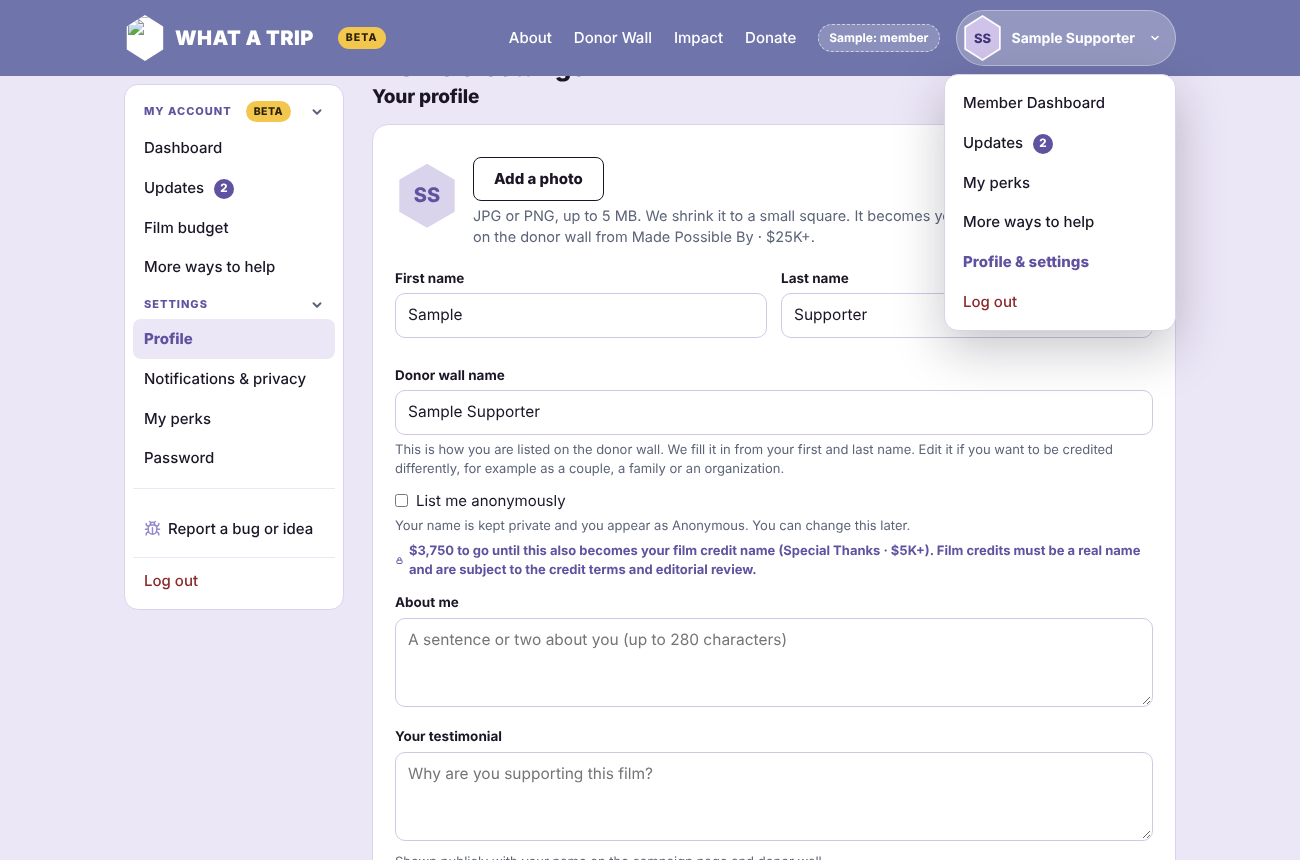
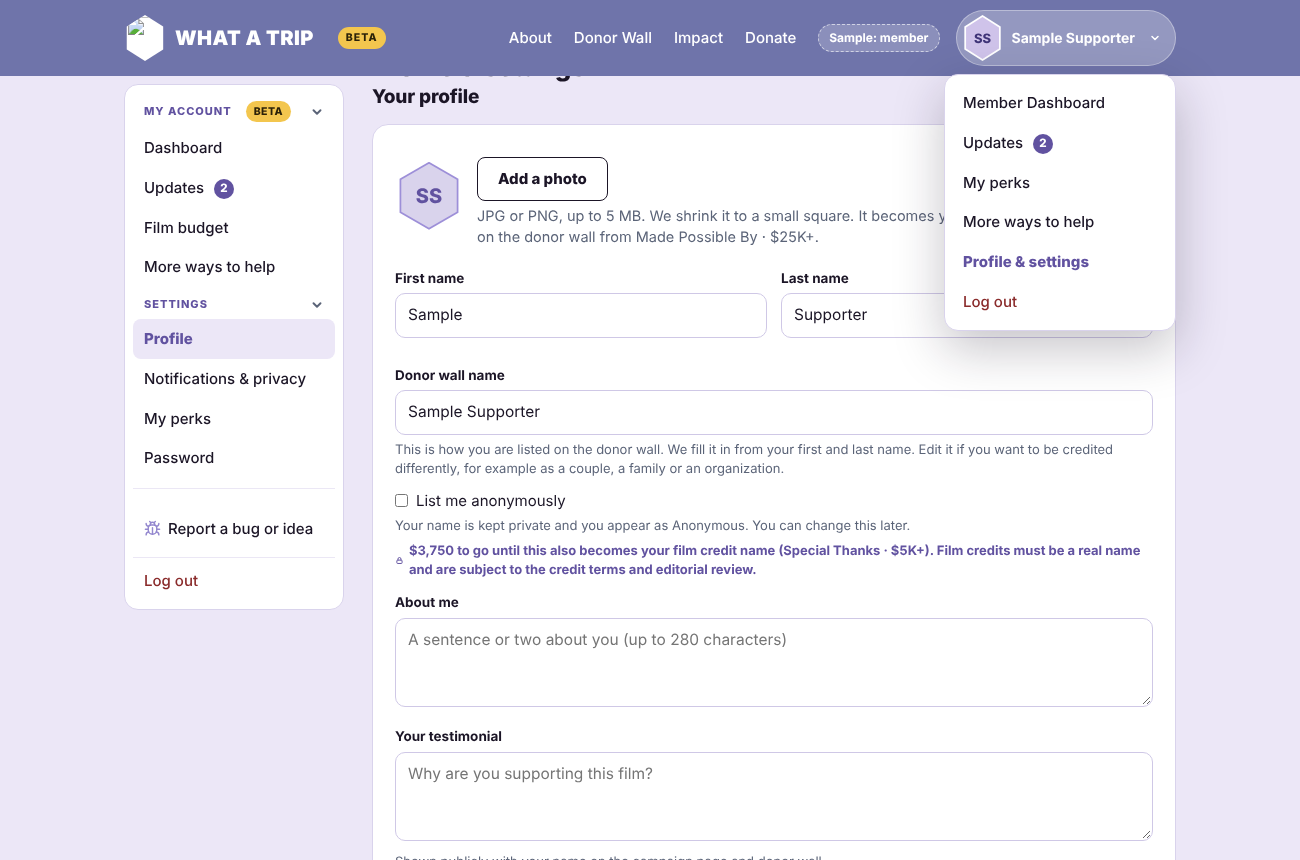
Home dev: borders on all profile hexagons; supporter profile with credit level, year, donation history, challenges, bio/links hook, shareable link
Claude-Session: https://claude.ai/code/session_01B4g6Jr5SafogaXZoJmXf7b

Changed region(s): [[0.3077, 0.1814, 0.7385, 0.3023]]

diff --git a/home-page/home-block.html b/home-page/home-block.html
@@ -1530,6 +1530,29 @@ html.wath-framed :is(#wath,#wath-top) .pvb{display:none}
 #header .wath-chip-av,#header .wath-hlog .wath-chip-av,#wath-top .wath-chip .wath-chip-av,.wath-chip .wath-chip-av{width:42px!important;height:46px!important;font-size:13px!important}
 #wath-top .mme .wath-chip-av{width:42px!important;height:46px!important;font-size:13px;font-weight:800;display:inline-flex;flex:none}
 #wath-top .mlogo img{width:42px!important;height:46px!important;padding:2px!important;background:#fff!important;box-sizing:border-box}
+:is(#wath,#wath-top) .hxw{display:inline-flex;flex:none;align-self:center;padding:2px;background:#9d8fd8;line-height:0;vertical-align:middle;clip-path:polygon(50% 0,93.3% 25%,93.3% 75%,50% 100%,6.7% 75%,6.7% 25%)}
+:is(#wath,#wath-top) .hxw>*{margin:0!important;box-shadow:none!important;border:0!important}
+#wath-top .mme .hxw,#wath-top .mme .hxw.hxm{padding:2px;background:#fff}
+#wath-top .sphx{margin:0 0 14px;border:1px solid #e3def0;border-radius:12px}
+#wath-top .sphb{all:unset;box-sizing:border-box;display:flex;align-items:center;gap:8px;width:100%;padding:11px 14px;font-weight:700;font-size:14.5px;color:#5d4fa6;cursor:pointer}
+#wath-top .sphb .chev{margin-left:auto;transition:transform .15s}
+#wath-top .sphb[aria-expanded=true] .chev{transform:rotate(180deg)}
+#wath-top .sphb:focus-visible{outline:2px solid #6152a0;border-radius:12px}
+#wath-top .sphl{padding:0 14px 8px}
+#wath-top .sphl>div{display:flex;justify-content:space-between;padding:7px 0;border-top:1px solid #f0edf7;font-size:14.5px}
+#wath-top .sphl span{color:#5b6478}
+#wath-top .spch{margin:0 0 14px}
+#wath-top .spl{display:block;font-size:11px;font-weight:800;letter-spacing:.09em;text-transform:uppercase;color:#6152a0;margin-bottom:6px}
+#wath-top .spch>div{display:flex;justify-content:space-between;gap:10px;padding:9px 12px;background:#fff8e8;border-radius:10px;margin-bottom:6px;font-size:14.5px}
+#wath-top .spch>div span{color:#7a6230}
+#wath-top .spbio p{margin:0 0 10px;color:#3a3245;line-height:1.5;font-size:15px}
+#wath-top .spbio .sprole{font-weight:700;color:#5d4fa6;font-size:14px}
+#wath-top .splk{display:flex;flex-wrap:wrap;gap:8px;margin:0 0 14px}
+#wath-top .splk a{padding:6px 12px;border-radius:999px;border:1px solid #e3def0;font-size:13.5px;font-weight:700;color:#5d4fa6;text-decoration:none}
+#wath-top .splk a:hover{background:#f4f1fb}
+#wath-top .spf{display:flex;flex-wrap:wrap;gap:10px}
+#wath-top .spf .btn{display:inline-flex;align-items:center;gap:7px}
+#wath-top .spq:empty{display:none}
 .mov .adots{position:relative;display:inline-flex}
 .mov .amng button.adotb{width:36px!important;height:36px!important;min-width:36px;box-sizing:border-box;flex:none;border-radius:50%;border:1px solid rgba(27,21,38,.16);background:#fff;color:#1b1526;display:inline-flex;align-items:center;justify-content:center;cursor:pointer;padding:0}
 .mov .amng button.adotb:hover{background:#f1eef8}
@@ -1705,12 +1728,21 @@ function renderDonations(){tally();SUPQ=null;var tabs=[['top','Top supporters'],
 /* Nov 17 (Nirvan): supporters are clickable: a small public profile with their total, level and any comments; a comment icon marks people who left one */
 function supQ(n){var k=String(n).toLowerCase(),Q=[];comments().forEach(function(c){if(c.n.toLowerCase()===k&&Q.indexOf(c.t)<0)Q.push(c.t)});PINNED.forEach(function(p){if(p.n.toLowerCase()===k&&Q.indexOf(p.t)<0)Q.unshift(p.t)});return Q}
 var SUPQ=null;function supCm(n){if(!SUPQ){SUPQ={};comments().forEach(function(c){SUPQ[c.n.toLowerCase()]=1});PINNED.forEach(function(p){SUPQ[p.n.toLowerCase()]=1})}return SUPQ[String(n).toLowerCase()]?'<span class="spcm" title="Left a comment" aria-label="Left a comment"><svg aria-hidden="true" width="15" height="15" viewBox="0 0 24 24" fill="none" stroke="currentColor" stroke-width="2.2" stroke-linecap="round" stroke-linejoin="round"><path d="M4 5h16v11H9l-5 4z"/></svg></span>':''}
-function openSupp(n){var k=String(n).toLowerCase(),G=S.gifts.filter(function(g){return !isAnon(g)&&nm(g).toLowerCase()===k}).sort(function(x,y){return String(x.date)<String(y.date)?-1:1}),tot=TOTALS[k]||G.reduce(function(t,g){return t+(+g.amount||0)},0),l=levelFor(tot),Q=supQ(n),pin=PINNED.filter(function(p){return p.n.toLowerCase()===k})[0],first=G[0]&&String(G[0].date||'').slice(0,10).split('-');
-  var since=first&&first.length===3?['January','February','March','April','May','June','July','August','September','October','November','December'][+first[1]-1]+' '+first[0]:'';
+/* Nov 17 4:24pm (Nirvan): an approved public profile adds a short bio; social links show from the level that includes "Photo & social links" ($25K+) */
+var SUPC={};function supCard(n,tot,o){var k=String(n).toLowerCase(),put=function(p){var el=o.querySelector('[data-spbio]');if(!el||!p)return;var L=[];if(tot>=25000){[['link_instagram','Instagram'],['link_linkedin','LinkedIn'],['link_website','Website'],['link_other','Link']].forEach(function(x){var u=String(p[x[0]]||'').trim();if(!u)return;if(x[0]==='link_instagram'&&!/^https?:/i.test(u))u='https://www.instagram.com/'+u.replace(/^@/,'')+'/';if(!/^https?:\/\//i.test(u))u='https://'+u;L.push('<a href="'+esc(u)+'" target="_blank" rel="noopener nofollow">'+x[1]+'</a>')})}
+    el.innerHTML=(p.film_role?'<p class="sprole">'+esc(p.film_role)+'</p>':'')+(p.about_me?'<p>'+esc(p.about_me)+'</p>':'')+(L.length?'<div class="splk">'+L.join('')+'</div>':'');var sq=o.querySelector('.spq');if(p.testimonial&&sq&&sq.textContent.indexOf(p.testimonial)<0)sq.insertAdjacentHTML('beforeend','<blockquote>“'+esc(p.testimonial)+'”</blockquote>')};
+  if(k in SUPC){put(SUPC[k]);return}try{sbLoad(function(sb){if(!sb)return;sb.rpc('supporter_card',{p_name:n}).then(function(r){var p=r&&r.data&&r.data[0]||null;SUPC[k]=p;put(p)},function(){})})}catch(e){}}
+function openSupp(n){var k=String(n).toLowerCase(),G=S.gifts.filter(function(g){return !isAnon(g)&&nm(g).toLowerCase()===k}).sort(function(x,y){return String(x.date)<String(y.date)?1:-1}),tot=TOTALS[k]||G.reduce(function(t,g){return t+(+g.amount||0)},0),l=levelFor(tot),Q=supQ(n),pin=PINNED.filter(function(p){return p.n.toLowerCase()===k})[0],yrs=G.map(function(g){return String(g.date||'').slice(0,4)}).filter(function(y){return /^\d{4}$/.test(y)}).sort(),since=yrs[0]||'';
+  /* Nov 17 4:23pm (Nirvan): credit level, supporter since (year), donation history behind a chevron, matching challenges */
+  var cr=l?(l.credit?esc(l.n)+' credit':esc(l.n)+' level'):'Supporter';
+  var CH=LEGS.concat(PAST).filter(function(c){var cn=String(c.n).toLowerCase();return cn===k||(c.who||[]).some(function(w){return String(w).toLowerCase()===k})||cn.split(/\s*&\s*/).indexOf(k)>=0});
+  var hist=G.length>1?'<div class="sphx"><button class="sphb" data-sph aria-expanded="false">Donation history · '+G.length+' gifts<svg class="chev" aria-hidden="true" width="14" height="14" viewBox="0 0 16 16" fill="none" stroke="currentColor" stroke-width="2.2" stroke-linecap="round" stroke-linejoin="round"><path d="M4 6l4 4 4-4"/></svg></button><div class="sphl" hidden>'+G.map(function(g){var d=String(g.date||'').slice(0,10).split('-');var ds=d.length===3?['Jan','Feb','Mar','Apr','May','Jun','Jul','Aug','Sep','Oct','Nov','Dec'][+d[1]-1]+' '+(+d[2])+', '+d[0]:'';return '<div><span>'+ds+'</span><b>'+money(g.amount)+'</b></div>'}).join('')+'</div></div>':'';
+  var chs=CH.length?'<div class="spch"><span class="spl">Matching challenges</span>'+CH.map(function(c){return '<div><b>'+short(c.cap)+' matching challenge</b><span>'+(c.when?esc(c.when)+' · completed':'Doubling gifts now')+'</span></div>'}).join('')+'</div>':'';
   closeBio();var o=document.createElement('div');o.className='bov spov';o.setAttribute('role','dialog');o.setAttribute('aria-modal','true');o.setAttribute('aria-label',n);
-  o.innerHTML='<div class="bovc"><button class="bovx" aria-label="Close">&times;</button><div class="bovh spvh">'+av(n)+'<div><b>'+esc(n)+'</b><span>'+(pin?esc(pin.role):'Supporter')+'</span></div></div><div class="spst"><div><b>'+money(tot)+'</b><span>given'+(G.length>1?' across '+G.length+' gifts':'')+'</span></div>'+(l?'<div><b>'+esc(l.n)+'</b><span>'+l.l+' level</span></div>':'')+(since?'<div><b>'+since+'</b><span>supporting since</span></div>':'')+'</div>'+(Q.length?'<div class="spq">'+Q.map(function(q){return '<blockquote>“'+esc(q)+'”</blockquote>'}).join('')+'</div>':'<p class="spnq">'+esc(n.split(' ')[0])+' hasn’t left a comment yet.</p>')+'<div class="bovf"><button class="btn pri" data-spgive>Give and join '+esc(n.split(' ')[0])+'</button></div></div>';
-  o.addEventListener('click',function(ev){if(ev.target===o||ev.target.className==='bovx')closeBio();else if(ev.target.closest('[data-spgive]')){closeBio();give()}});T.appendChild(o);document.documentElement.classList.add('wath-noscroll');o.querySelector('.bovx').focus()}
+  o.innerHTML='<div class="bovc"><button class="bovx" aria-label="Close">&times;</button><div class="bovh spvh">'+av(n)+'<div><b>'+esc(n)+'</b><span>'+(pin?esc(pin.role):cr)+'</span></div></div><div class="spst"><div><b>'+money(tot)+'</b><span>given'+(G.length>1?' across '+G.length+' gifts':'')+'</span></div>'+(l?'<div><b>'+esc(l.n)+'</b><span>'+l.l+(l.credit?' credit level':' level')+'</span></div>':'')+(since?'<div><b>'+since+'</b><span>supporter since</span></div>':'')+'</div>'+'<div class="spbio" data-spbio></div>'+hist+chs+'<div class="spq">'+Q.map(function(q){return '<blockquote>“'+esc(q)+'”</blockquote>'}).join('')+'</div><div class="bovf spf"><button class="btn" data-spcopy><svg aria-hidden="true" width="16" height="16" viewBox="0 0 24 24" fill="none" stroke="currentColor" stroke-width="2.2" stroke-linecap="round" stroke-linejoin="round"><path d="M10 14a5 5 0 0 0 7 0l3-3a5 5 0 0 0-7-7l-1 1"/><path d="M14 10a5 5 0 0 0-7 0l-3 3a5 5 0 0 0 7 7l1-1"/></svg>Copy link to profile</button></div></div>';
+  o.addEventListener('click',function(ev){var hb=ev.target.closest('[data-sph]');if(hb){var op=hb.getAttribute('aria-expanded')!=='true';hb.setAttribute('aria-expanded',op);hb.nextSibling.hidden=!op;return}if(ev.target.closest('[data-spcopy]')){var u=location.origin+location.pathname+'?supporter='+encodeURIComponent(n);try{navigator.clipboard.writeText(u).then(function(){toast('Link copied. Anyone with it sees this profile.')},function(){prompt('Copy this link',u)})}catch(x){prompt('Copy this link',u)}return}if(ev.target===o||ev.target.className==='bovx')closeBio();else if(ev.target.closest('[data-spgive]')){closeBio();give()}});T.appendChild(o);document.documentElement.classList.add('wath-noscroll');o.querySelector('.bovx').focus();supCard(n,tot,o)}
 R.addEventListener('click',function(e){var r=e.target.closest&&e.target.closest('[data-supp]');if(!r||e.target.closest('button,a'))return;openSupp(r.getAttribute('data-supp'))});
+(function(){var m=/[?&]supporter=([^&#]+)/.exec(location.search);if(!m)return;var nm0=decodeURIComponent(m[1].replace(/\+/g,' ')),tries=0;(function t(){if(S.gifts&&S.gifts.length&&TOTALS[nm0.toLowerCase()]!=null){var d=TOPL.filter(function(x){return x[2]===nm0.toLowerCase()})[0];openSupp(d?d[0]:nm0);return}if(++tries<40)setTimeout(t,250)})()})();
 R.addEventListener('keydown',function(e){if(e.key!=='Enter'&&e.key!==' ')return;var r=e.target.getAttribute&&e.target.getAttribute('data-supp');if(r){e.preventDefault();openSupp(r)}});
 var cntSeen={};
 /* Nov 17 (Nirvan): counts are a plain purple number; the pill only shows when there is something new since the last visit.
@@ -2624,6 +2656,11 @@ function navUpd(){[].forEach.call(document.querySelectorAll('[data-wath-navupdi]
   put(document.querySelector('#header .header-nav-list'),'.header-nav-item');put(document.querySelector('.header-menu-nav-folder-content'),'.header-menu-nav-item')}catch(e){}}
 document.addEventListener('click',function(e){var a=e.target.closest&&e.target.closest('[data-wath-navupd]');if(!a)return;e.preventDefault();var b=document.querySelector('.header--menu-open .header-burger-btn');if(b)b.click();var el=document.getElementById('wath-updates');if(el){var y=el.getBoundingClientRect().top+(window.pageYOffset||0)-70;try{window.scrollTo({top:y,behavior:'smooth'})}catch(x){window.scrollTo(0,y)}}},true);
 setTimeout(navUpd,900);setTimeout(navUpd,2700);
+/* Nov 17 4:22pm (Nirvan): every hexagon profile shape gets a border. A clipped shape cannot carry its own border, so each one is wrapped in a slightly larger purple hexagon. Supporter rows already draw their outline in the bonds drawing. */
+(function(){var SEL='.av,.mav,.bovh img,.bovi,.tndby img',busy=0;
+  function wrap(){busy=0;[R,T].forEach(function(root){if(!root)return;[].forEach.call(root.querySelectorAll(SEL),function(el){var p=el.parentNode;if(!p||(p.classList&&p.classList.contains('hxw'))||el.closest('#wath-recent .suplist,.wath-chip-av,.tmw,.fa-dw'))return;if(!el.offsetWidth&&!el.offsetHeight&&el.tagName==='IMG'&&!el.complete){}var w=document.createElement('span');w.className='hxw'+(el.classList.contains('mav')?' hxm':'');p.insertBefore(w,el);w.appendChild(el)})})}
+  function later(){if(busy)return;busy=1;requestAnimationFrame(wrap)}
+  if(window.MutationObserver)[R,T].forEach(function(root){if(root)new MutationObserver(later).observe(root,{childList:true,subtree:true})});wrap()})();
 /* "Log in" in the main menu (desktop and phone menus) */
 (function(){function add(){try{var d=document.querySelector('#header .header-nav-list');if(d&&!d.querySelector('[data-wath-login]')){var it=d.querySelector('.header-nav-item');if(it){var c=it.cloneNode(true),a=c.querySelector('a');if(a){c.className=c.className.replace(/header-nav-item--active/g,'');a.textContent='Log in';a.setAttribute('href','#login');a.setAttribute('data-wath-login','1');a.removeAttribute('aria-current');/* Squarespace fades menu links in via preFade/fadeIn; a clone taken before the fade stays invisible */a.className=a.className.replace(/\bpreFade\b|\bfadeIn\b/g,'').trim();a.removeAttribute('style');a.style.opacity='1';d.appendChild(c)}}}
   var m=document.querySelector('.header-menu-nav-folder-content');if(m&&!m.querySelector('[data-wath-login]')){var its=m.querySelectorAll('.header-menu-nav-item'),li=its[its.length-1];if(li){var c2=li.cloneNode(true),a2=c2.querySelector('a');if(a2){a2.setAttribute('href','#login');a2.setAttribute('data-wath-login','1');a2.className=a2.className.replace(/\bpreFade\b|\bfadeIn\b/g,'').trim();a2.style.opacity='1';var inner=a2.querySelector('.header-menu-nav-item-content')||a2;inner.textContent='Log in';li.parentNode.insertBefore(c2,li.nextSibling)}}}

diff --git a/home-page/src/app.js b/home-page/src/app.js
@@ -106,12 +106,21 @@ function renderDonations(){tally();SUPQ=null;var tabs=[['top','Top supporters'],
 /* Nov 17 (Nirvan): supporters are clickable: a small public profile with their total, level and any comments; a comment icon marks people who left one */
 function supQ(n){var k=String(n).toLowerCase(),Q=[];comments().forEach(function(c){if(c.n.toLowerCase()===k&&Q.indexOf(c.t)<0)Q.push(c.t)});PINNED.forEach(function(p){if(p.n.toLowerCase()===k&&Q.indexOf(p.t)<0)Q.unshift(p.t)});return Q}
 var SUPQ=null;function supCm(n){if(!SUPQ){SUPQ={};comments().forEach(function(c){SUPQ[c.n.toLowerCase()]=1});PINNED.forEach(function(p){SUPQ[p.n.toLowerCase()]=1})}return SUPQ[String(n).toLowerCase()]?'<span class="spcm" title="Left a comment" aria-label="Left a comment"><svg aria-hidden="true" width="15" height="15" viewBox="0 0 24 24" fill="none" stroke="currentColor" stroke-width="2.2" stroke-linecap="round" stroke-linejoin="round"><path d="M4 5h16v11H9l-5 4z"/></svg></span>':''}
-function openSupp(n){var k=String(n).toLowerCase(),G=S.gifts.filter(function(g){return !isAnon(g)&&nm(g).toLowerCase()===k}).sort(function(x,y){return String(x.date)<String(y.date)?-1:1}),tot=TOTALS[k]||G.reduce(function(t,g){return t+(+g.amount||0)},0),l=levelFor(tot),Q=supQ(n),pin=PINNED.filter(function(p){return p.n.toLowerCase()===k})[0],first=G[0]&&String(G[0].date||'').slice(0,10).split('-');
-  var since=first&&first.length===3?['January','February','March','April','May','June','July','August','September','October','November','December'][+first[1]-1]+' '+first[0]:'';
+/* Nov 17 4:24pm (Nirvan): an approved public profile adds a short bio; social links show from the level that includes "Photo & social links" ($25K+) */
+var SUPC={};function supCard(n,tot,o){var k=String(n).toLowerCase(),put=function(p){var el=o.querySelector('[data-spbio]');if(!el||!p)return;var L=[];if(tot>=25000){[['link_instagram','Instagram'],['link_linkedin','LinkedIn'],['link_website','Website'],['link_other','Link']].forEach(function(x){var u=String(p[x[0]]||'').trim();if(!u)return;if(x[0]==='link_instagram'&&!/^https?:/i.test(u))u='https://www.instagram.com/'+u.replace(/^@/,'')+'/';if(!/^https?:\/\//i.test(u))u='https://'+u;L.push('<a href="'+esc(u)+'" target="_blank" rel="noopener nofollow">'+x[1]+'</a>')})}
+    el.innerHTML=(p.film_role?'<p class="sprole">'+esc(p.film_role)+'</p>':'')+(p.about_me?'<p>'+esc(p.about_me)+'</p>':'')+(L.length?'<div class="splk">'+L.join('')+'</div>':'');var sq=o.querySelector('.spq');if(p.testimonial&&sq&&sq.textContent.indexOf(p.testimonial)<0)sq.insertAdjacentHTML('beforeend','<blockquote>“'+esc(p.testimonial)+'”</blockquote>')};
+  if(k in SUPC){put(SUPC[k]);return}try{sbLoad(function(sb){if(!sb)return;sb.rpc('supporter_card',{p_name:n}).then(function(r){var p=r&&r.data&&r.data[0]||null;SUPC[k]=p;put(p)},function(){})})}catch(e){}}
+function openSupp(n){var k=String(n).toLowerCase(),G=S.gifts.filter(function(g){return !isAnon(g)&&nm(g).toLowerCase()===k}).sort(function(x,y){return String(x.date)<String(y.date)?1:-1}),tot=TOTALS[k]||G.reduce(function(t,g){return t+(+g.amount||0)},0),l=levelFor(tot),Q=supQ(n),pin=PINNED.filter(function(p){return p.n.toLowerCase()===k})[0],yrs=G.map(function(g){return String(g.date||'').slice(0,4)}).filter(function(y){return /^\d{4}$/.test(y)}).sort(),since=yrs[0]||'';
+  /* Nov 17 4:23pm (Nirvan): credit level, supporter since (year), donation history behind a chevron, matching challenges */
+  var cr=l?(l.credit?esc(l.n)+' credit':esc(l.n)+' level'):'Supporter';
+  var CH=LEGS.concat(PAST).filter(function(c){var cn=String(c.n).toLowerCase();return cn===k||(c.who||[]).some(function(w){return String(w).toLowerCase()===k})||cn.split(/\s*&\s*/).indexOf(k)>=0});
+  var hist=G.length>1?'<div class="sphx"><button class="sphb" data-sph aria-expanded="false">Donation history · '+G.length+' gifts<svg class="chev" aria-hidden="true" width="14" height="14" viewBox="0 0 16 16" fill="none" stroke="currentColor" stroke-width="2.2" stroke-linecap="round" stroke-linejoin="round"><path d="M4 6l4 4 4-4"/></svg></button><div class="sphl" hidden>'+G.map(function(g){var d=String(g.date||'').slice(0,10).split('-');var ds=d.length===3?['Jan','Feb','Mar','Apr','May','Jun','Jul','Aug','Sep','Oct','Nov','Dec'][+d[1]-1]+' '+(+d[2])+', '+d[0]:'';return '<div><span>'+ds+'</span><b>'+money(g.amount)+'</b></div>'}).join('')+'</div></div>':'';
+  var chs=CH.length?'<div class="spch"><span class="spl">Matching challenges</span>'+CH.map(function(c){return '<div><b>'+short(c.cap)+' matching challenge</b><span>'+(c.when?esc(c.when)+' · completed':'Doubling gifts now')+'</span></div>'}).join('')+'</div>':'';
   closeBio();var o=document.createElement('div');o.className='bov spov';o.setAttribute('role','dialog');o.setAttribute('aria-modal','true');o.setAttribute('aria-label',n);
-  o.innerHTML='<div class="bovc"><button class="bovx" aria-label="Close">&times;</button><div class="bovh spvh">'+av(n)+'<div><b>'+esc(n)+'</b><span>'+(pin?esc(pin.role):'Supporter')+'</span></div></div><div class="spst"><div><b>'+money(tot)+'</b><span>given'+(G.length>1?' across '+G.length+' gifts':'')+'</span></div>'+(l?'<div><b>'+esc(l.n)+'</b><span>'+l.l+' level</span></div>':'')+(since?'<div><b>'+since+'</b><span>supporting since</span></div>':'')+'</div>'+(Q.length?'<div class="spq">'+Q.map(function(q){return '<blockquote>“'+esc(q)+'”</blockquote>'}).join('')+'</div>':'<p class="spnq">'+esc(n.split(' ')[0])+' hasn’t left a comment yet.</p>')+'<div class="bovf"><button class="btn pri" data-spgive>Give and join '+esc(n.split(' ')[0])+'</button></div></div>';
-  o.addEventListener('click',function(ev){if(ev.target===o||ev.target.className==='bovx')closeBio();else if(ev.target.closest('[data-spgive]')){closeBio();give()}});T.appendChild(o);document.documentElement.classList.add('wath-noscroll');o.querySelector('.bovx').focus()}
+  o.innerHTML='<div class="bovc"><button class="bovx" aria-label="Close">&times;</button><div class="bovh spvh">'+av(n)+'<div><b>'+esc(n)+'</b><span>'+(pin?esc(pin.role):cr)+'</span></div></div><div class="spst"><div><b>'+money(tot)+'</b><span>given'+(G.length>1?' across '+G.length+' gifts':'')+'</span></div>'+(l?'<div><b>'+esc(l.n)+'</b><span>'+l.l+(l.credit?' credit level':' level')+'</span></div>':'')+(since?'<div><b>'+since+'</b><span>supporter since</span></div>':'')+'</div>'+'<div class="spbio" data-spbio></div>'+hist+chs+'<div class="spq">'+Q.map(function(q){return '<blockquote>“'+esc(q)+'”</blockquote>'}).join('')+'</div><div class="bovf spf"><button class="btn" data-spcopy><svg aria-hidden="true" width="16" height="16" viewBox="0 0 24 24" fill="none" stroke="currentColor" stroke-width="2.2" stroke-linecap="round" stroke-linejoin="round"><path d="M10 14a5 5 0 0 0 7 0l3-3a5 5 0 0 0-7-7l-1 1"/><path d="M14 10a5 5 0 0 0-7 0l-3 3a5 5 0 0 0 7 7l1-1"/></svg>Copy link to profile</button></div></div>';
+  o.addEventListener('click',function(ev){var hb=ev.target.closest('[data-sph]');if(hb){var op=hb.getAttribute('aria-expanded')!=='true';hb.setAttribute('aria-expanded',op);hb.nextSibling.hidden=!op;return}if(ev.target.closest('[data-spcopy]')){var u=location.origin+location.pathname+'?supporter='+encodeURIComponent(n);try{navigator.clipboard.writeText(u).then(function(){toast('Link copied. Anyone with it sees this profile.')},function(){prompt('Copy this link',u)})}catch(x){prompt('Copy this link',u)}return}if(ev.target===o||ev.target.className==='bovx')closeBio();else if(ev.target.closest('[data-spgive]')){closeBio();give()}});T.appendChild(o);document.documentElement.classList.add('wath-noscroll');o.querySelector('.bovx').focus();supCard(n,tot,o)}
 R.addEventListener('click',function(e){var r=e.target.closest&&e.target.closest('[data-supp]');if(!r||e.target.closest('button,a'))return;openSupp(r.getAttribute('data-supp'))});
+(function(){var m=/[?&]supporter=([^&#]+)/.exec(location.search);if(!m)return;var nm0=decodeURIComponent(m[1].replace(/\+/g,' ')),tries=0;(function t(){if(S.gifts&&S.gifts.length&&TOTALS[nm0.toLowerCase()]!=null){var d=TOPL.filter(function(x){return x[2]===nm0.toLowerCase()})[0];openSupp(d?d[0]:nm0);return}if(++tries<40)setTimeout(t,250)})()})();
 R.addEventListener('keydown',function(e){if(e.key!=='Enter'&&e.key!==' ')return;var r=e.target.getAttribute&&e.target.getAttribute('data-supp');if(r){e.preventDefault();openSupp(r)}});
 var cntSeen={};
 /* Nov 17 (Nirvan): counts are a plain purple number; the pill only shows when there is something new since the last visit.
@@ -1025,6 +1034,11 @@ function navUpd(){[].forEach.call(document.querySelectorAll('[data-wath-navupdi]
   put(document.querySelector('#header .header-nav-list'),'.header-nav-item');put(document.querySelector('.header-menu-nav-folder-content'),'.header-menu-nav-item')}catch(e){}}
 document.addEventListener('click',function(e){var a=e.target.closest&&e.target.closest('[data-wath-navupd]');if(!a)return;e.preventDefault();var b=document.querySelector('.header--menu-open .header-burger-btn');if(b)b.click();var el=document.getElementById('wath-updates');if(el){var y=el.getBoundingClientRect().top+(window.pageYOffset||0)-70;try{window.scrollTo({top:y,behavior:'smooth'})}catch(x){window.scrollTo(0,y)}}},true);
 setTimeout(navUpd,900);setTimeout(navUpd,2700);
+/* Nov 17 4:22pm (Nirvan): every hexagon profile shape gets a border. A clipped shape cannot carry its own border, so each one is wrapped in a slightly larger purple hexagon. Supporter rows already draw their outline in the bonds drawing. */
+(function(){var SEL='.av,.mav,.bovh img,.bovi,.tndby img',busy=0;
+  function wrap(){busy=0;[R,T].forEach(function(root){if(!root)return;[].forEach.call(root.querySelectorAll(SEL),function(el){var p=el.parentNode;if(!p||(p.classList&&p.classList.contains('hxw'))||el.closest('#wath-recent .suplist,.wath-chip-av,.tmw,.fa-dw'))return;if(!el.offsetWidth&&!el.offsetHeight&&el.tagName==='IMG'&&!el.complete){}var w=document.createElement('span');w.className='hxw'+(el.classList.contains('mav')?' hxm':'');p.insertBefore(w,el);w.appendChild(el)})})}
+  function later(){if(busy)return;busy=1;requestAnimationFrame(wrap)}
+  if(window.MutationObserver)[R,T].forEach(function(root){if(root)new MutationObserver(later).observe(root,{childList:true,subtree:true})});wrap()})();
 /* "Log in" in the main menu (desktop and phone menus) */
 (function(){function add(){try{var d=document.querySelector('#header .header-nav-list');if(d&&!d.querySelector('[data-wath-login]')){var it=d.querySelector('.header-nav-item');if(it){var c=it.cloneNode(true),a=c.querySelector('a');if(a){c.className=c.className.replace(/header-nav-item--active/g,'');a.textContent='Log in';a.setAttribute('href','#login');a.setAttribute('data-wath-login','1');a.removeAttribute('aria-current');/* Squarespace fades menu links in via preFade/fadeIn; a clone taken before the fade stays invisible */a.className=a.className.replace(/\bpreFade\b|\bfadeIn\b/g,'').trim();a.removeAttribute('style');a.style.opacity='1';d.appendChild(c)}}}
   var m=document.querySelector('.header-menu-nav-folder-content');if(m&&!m.querySelector('[data-wath-login]')){var its=m.querySelectorAll('.header-menu-nav-item'),li=its[its.length-1];if(li){var c2=li.cloneNode(true),a2=c2.querySelector('a');if(a2){a2.setAttribute('href','#login');a2.setAttribute('data-wath-login','1');a2.className=a2.className.replace(/\bpreFade\b|\bfadeIn\b/g,'').trim();a2.style.opacity='1';var inner=a2.querySelector('.header-menu-nav-item-content')||a2;inner.textContent='Log in';li.parentNode.insertBefore(c2,li.nextSibling)}}}

diff --git a/home-page/src/build.py b/home-page/src/build.py
@@ -1565,6 +1565,29 @@ extra+="""
 #header .wath-chip-av,#header .wath-hlog .wath-chip-av,#wath-top .wath-chip .wath-chip-av,.wath-chip .wath-chip-av{width:42px!important;height:46px!important;font-size:13px!important}
 #wath-top .mme .wath-chip-av{width:42px!important;height:46px!important;font-size:13px;font-weight:800;display:inline-flex;flex:none}
 #wath-top .mlogo img{width:42px!important;height:46px!important;padding:2px!important;background:#fff!important;box-sizing:border-box}
+:is(#wath,#wath-top) .hxw{display:inline-flex;flex:none;align-self:center;padding:2px;background:#9d8fd8;line-height:0;vertical-align:middle;clip-path:polygon(50% 0,93.3% 25%,93.3% 75%,50% 100%,6.7% 75%,6.7% 25%)}
+:is(#wath,#wath-top) .hxw>*{margin:0!important;box-shadow:none!important;border:0!important}
+#wath-top .mme .hxw,#wath-top .mme .hxw.hxm{padding:2px;background:#fff}
+#wath-top .sphx{margin:0 0 14px;border:1px solid #e3def0;border-radius:12px}
+#wath-top .sphb{all:unset;box-sizing:border-box;display:flex;align-items:center;gap:8px;width:100%;padding:11px 14px;font-weight:700;font-size:14.5px;color:#5d4fa6;cursor:pointer}
+#wath-top .sphb .chev{margin-left:auto;transition:transform .15s}
+#wath-top .sphb[aria-expanded=true] .chev{transform:rotate(180deg)}
+#wath-top .sphb:focus-visible{outline:2px solid #6152a0;border-radius:12px}
+#wath-top .sphl{padding:0 14px 8px}
+#wath-top .sphl>div{display:flex;justify-content:space-between;padding:7px 0;border-top:1px solid #f0edf7;font-size:14.5px}
+#wath-top .sphl span{color:#5b6478}
+#wath-top .spch{margin:0 0 14px}
+#wath-top .spl{display:block;font-size:11px;font-weight:800;letter-spacing:.09em;text-transform:uppercase;color:#6152a0;margin-bottom:6px}
+#wath-top .spch>div{display:flex;justify-content:space-between;gap:10px;padding:9px 12px;background:#fff8e8;border-radius:10px;margin-bottom:6px;font-size:14.5px}
+#wath-top .spch>div span{color:#7a6230}
+#wath-top .spbio p{margin:0 0 10px;color:#3a3245;line-height:1.5;font-size:15px}
+#wath-top .spbio .sprole{font-weight:700;color:#5d4fa6;font-size:14px}
+#wath-top .splk{display:flex;flex-wrap:wrap;gap:8px;margin:0 0 14px}
+#wath-top .splk a{padding:6px 12px;border-radius:999px;border:1px solid #e3def0;font-size:13.5px;font-weight:700;color:#5d4fa6;text-decoration:none}
+#wath-top .splk a:hover{background:#f4f1fb}
+#wath-top .spf{display:flex;flex-wrap:wrap;gap:10px}
+#wath-top .spf .btn{display:inline-flex;align-items:center;gap:7px}
+#wath-top .spq:empty{display:none}
 .mov .adots{position:relative;display:inline-flex}
 .mov .amng button.adotb{width:36px!important;height:36px!important;min-width:36px;box-sizing:border-box;flex:none;border-radius:50%;border:1px solid rgba(27,21,38,.16);background:#fff;color:#1b1526;display:inline-flex;align-items:center;justify-content:center;cursor:pointer;padding:0}
 .mov .amng button.adotb:hover{background:#f1eef8}
